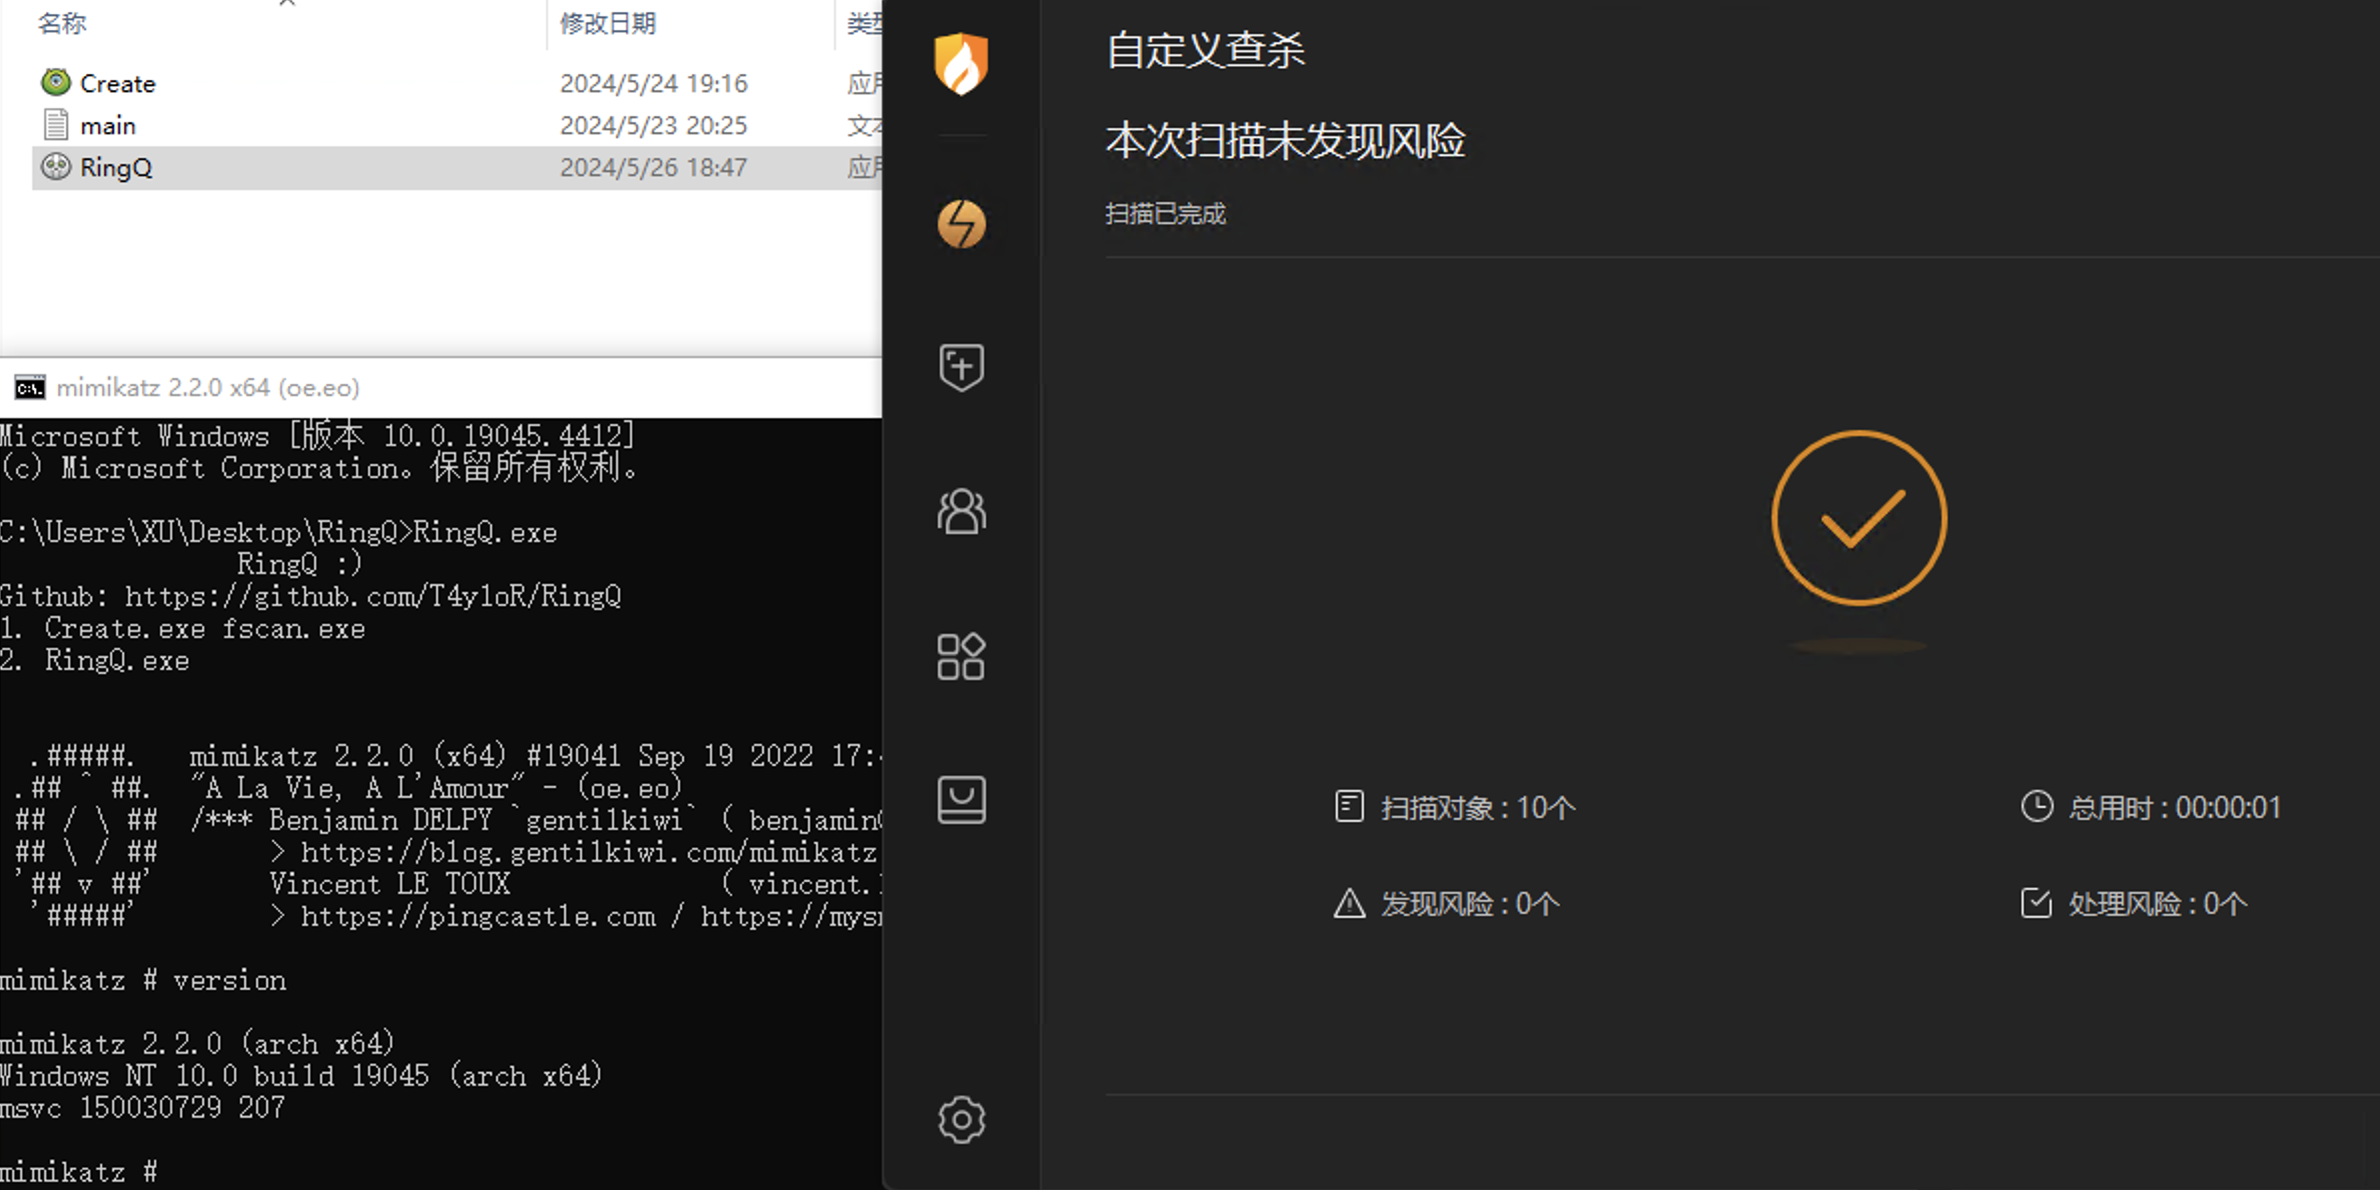
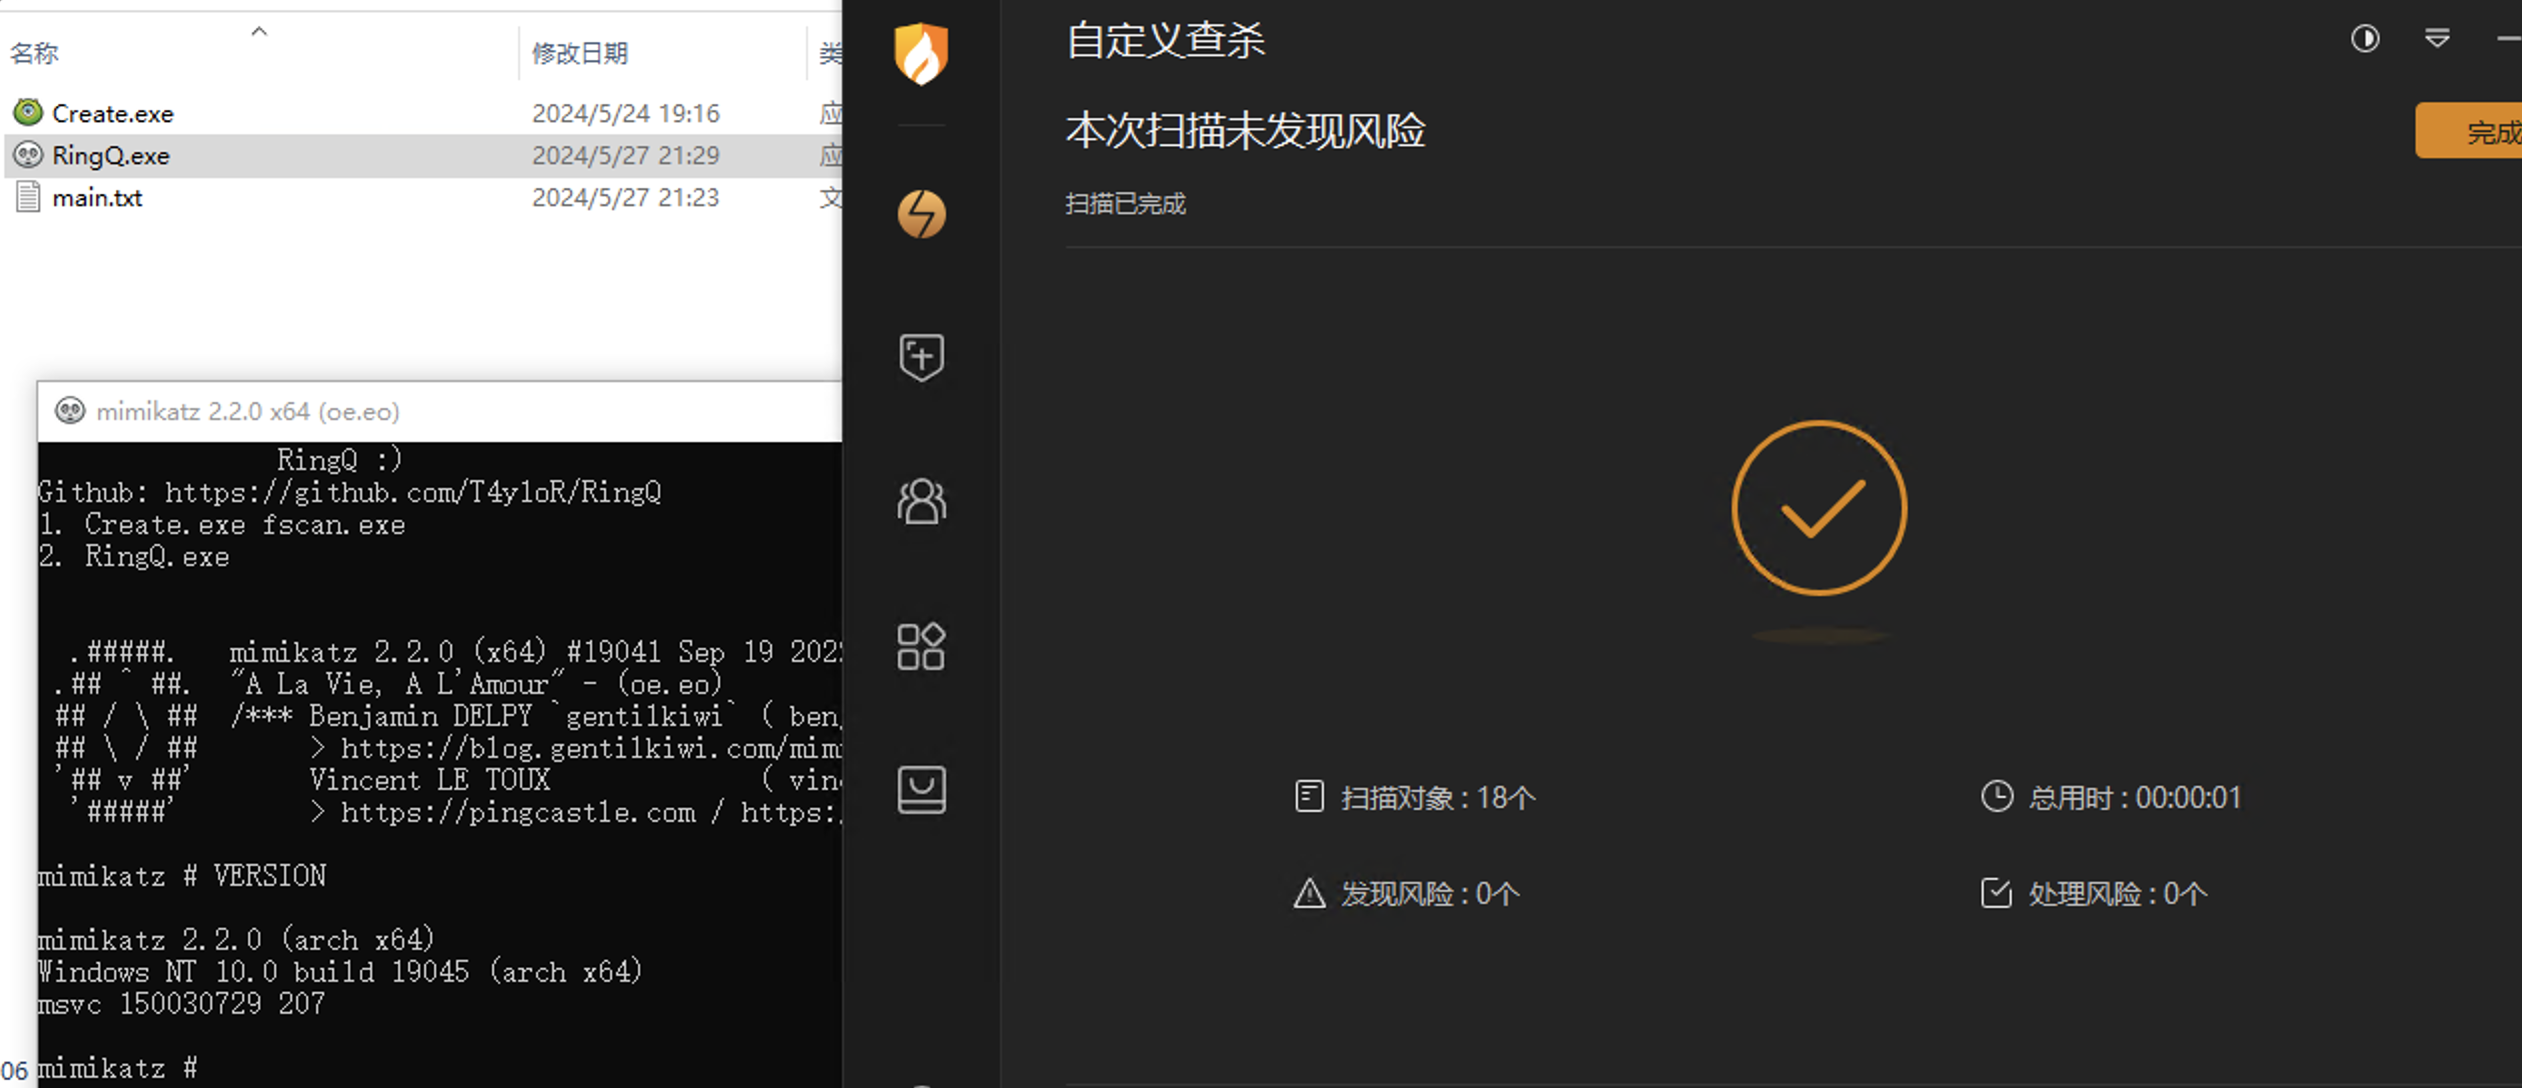
20240527

diff --git a/README.md b/README.md
@@ -44,14 +44,14 @@
 
 ### **微步**
 ![](images/image-20240511162750465.png)
-### **360**（2024.05.26更新）
+### **360**（2024.05.27更新）
 ![](images/360.png)
 ![](images/image-20240511165253870.png)
 
-### **Windows Defender**（2024.05.26更新）
+### **Windows Defender**（2024.05.27更新）
 ![](images/DF.png)
 
-### **火绒6.0**（2024.05.26更新）
+### **火绒6.0**（2024.05.27更新）
 ![](images/hr.png)
 
 ### **卡巴斯基**（2024.05.22更新）
@@ -89,6 +89,8 @@
 
 
 ### 更新日志
+
+2024.05.27  360QVM202报毒 已更新
 
 2024.05.24  RingQ 360QVM202报毒 已更新，Create火绒报毒 已更新，QVM250失效 已更新
 
